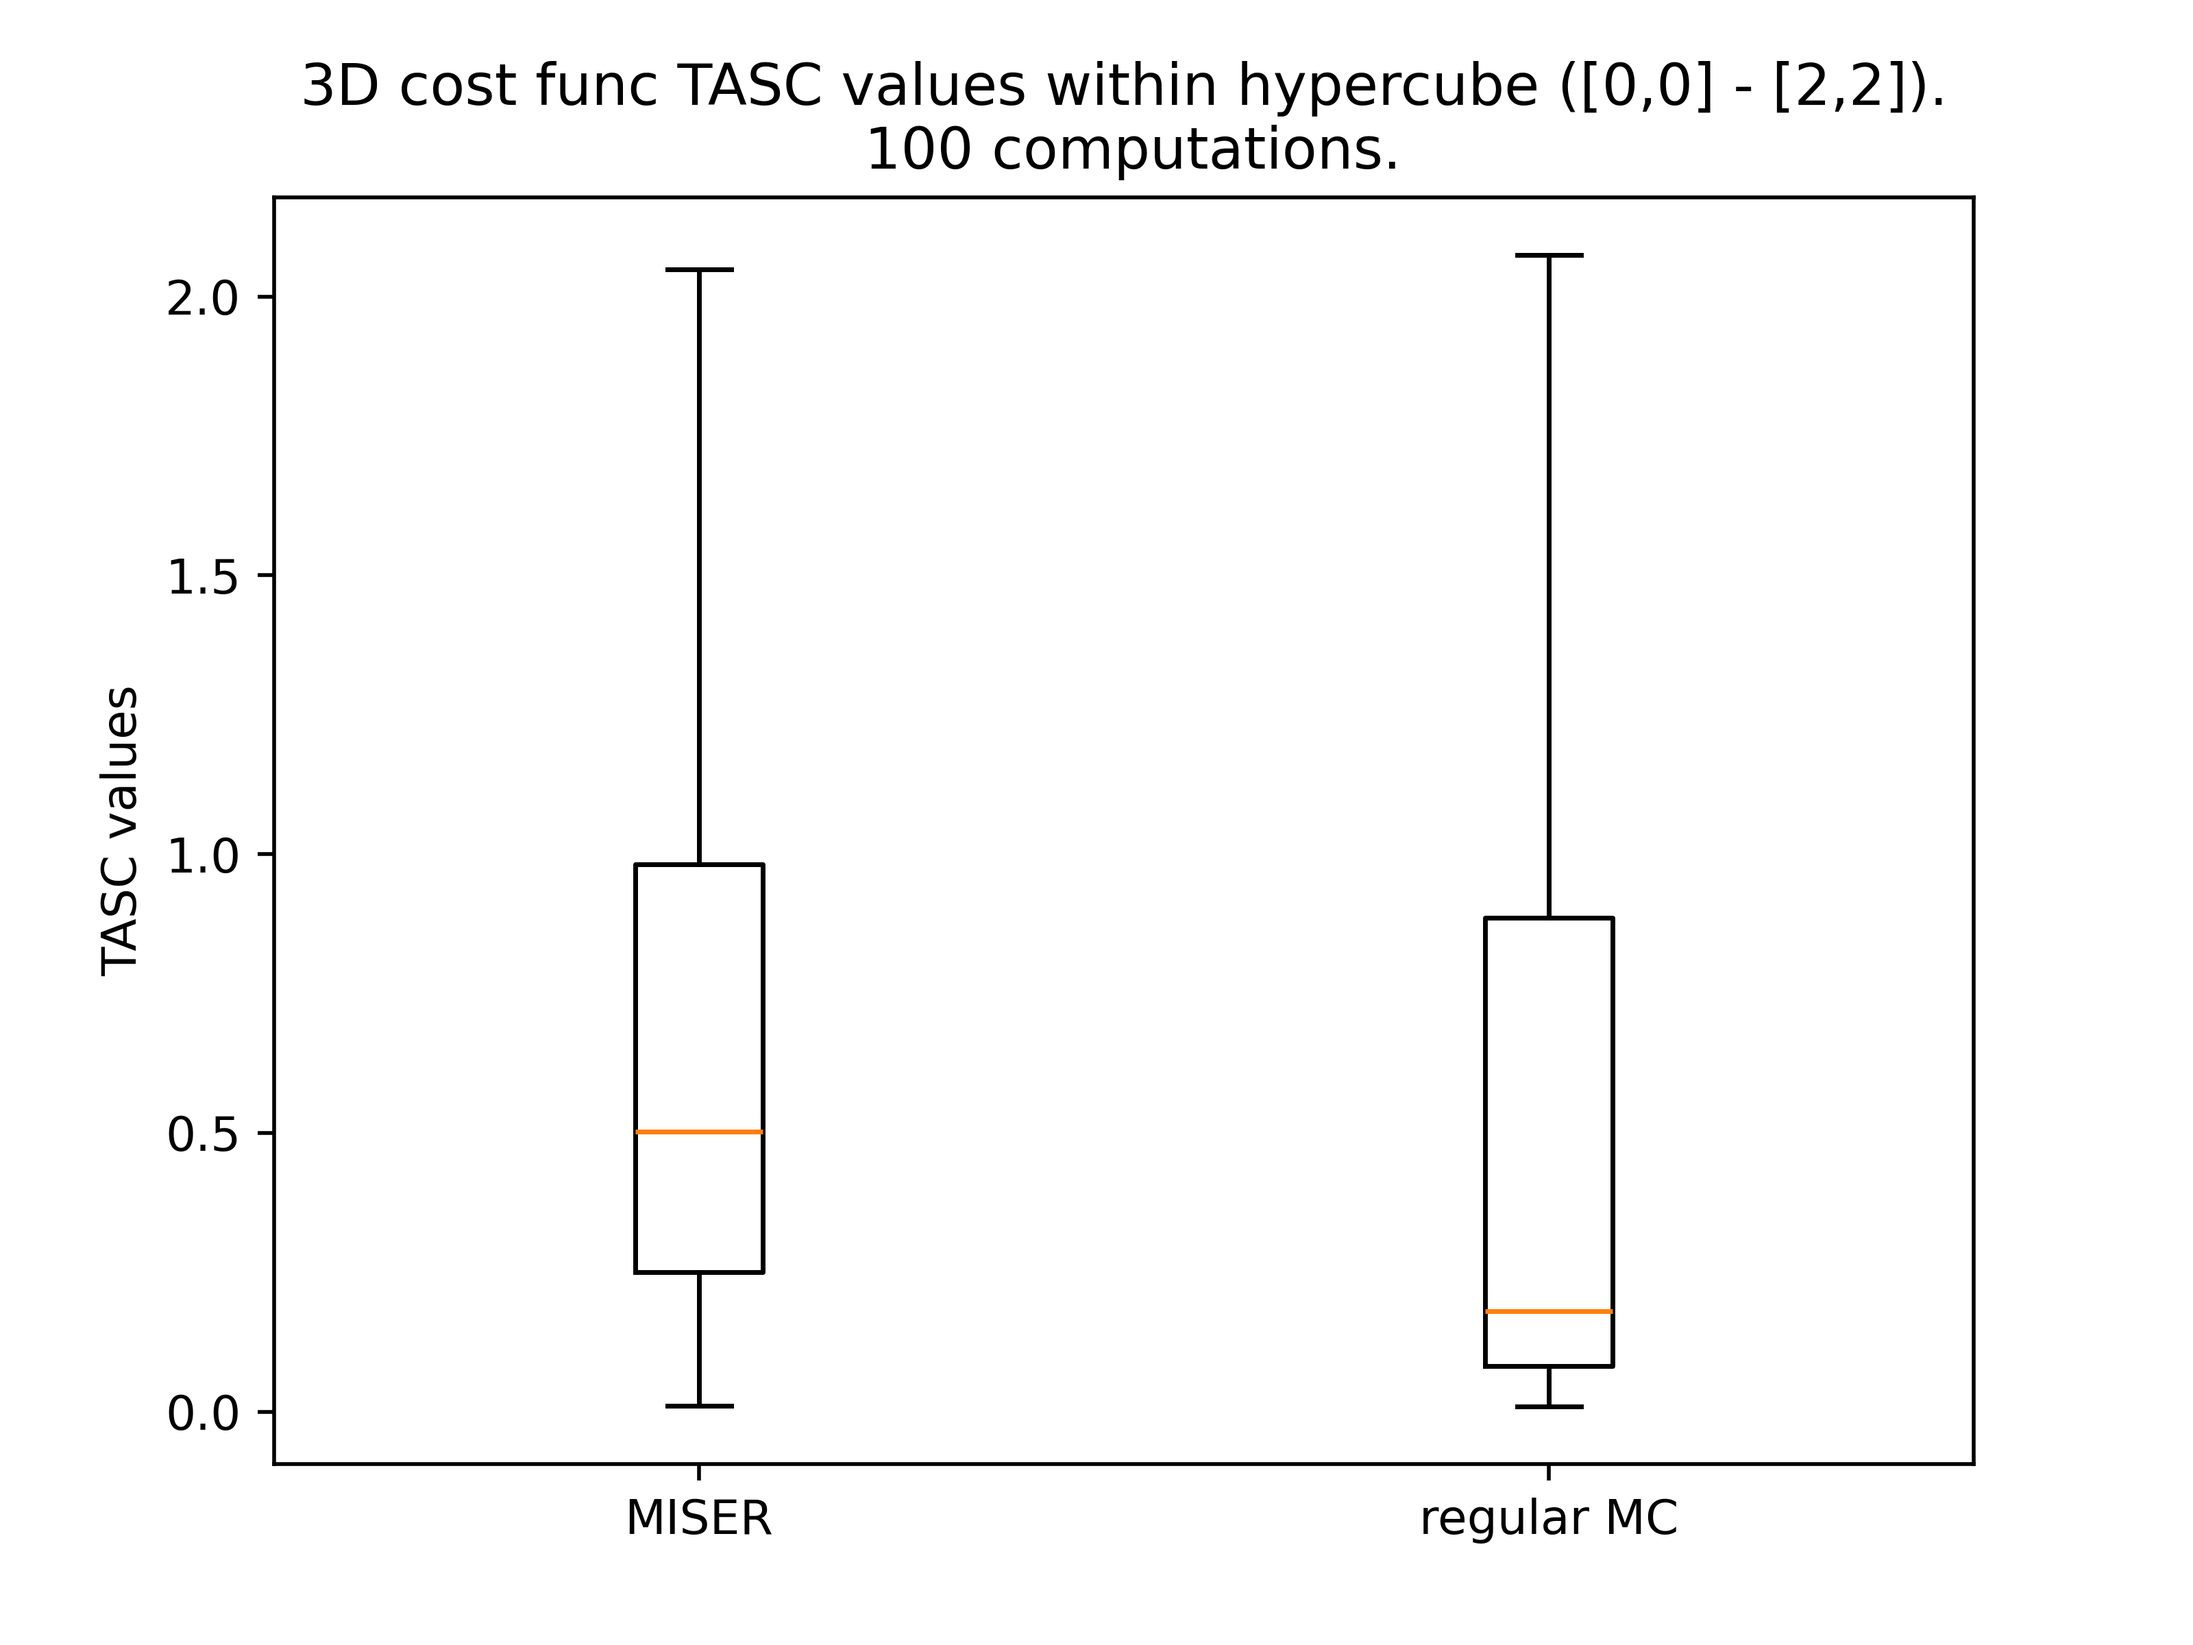
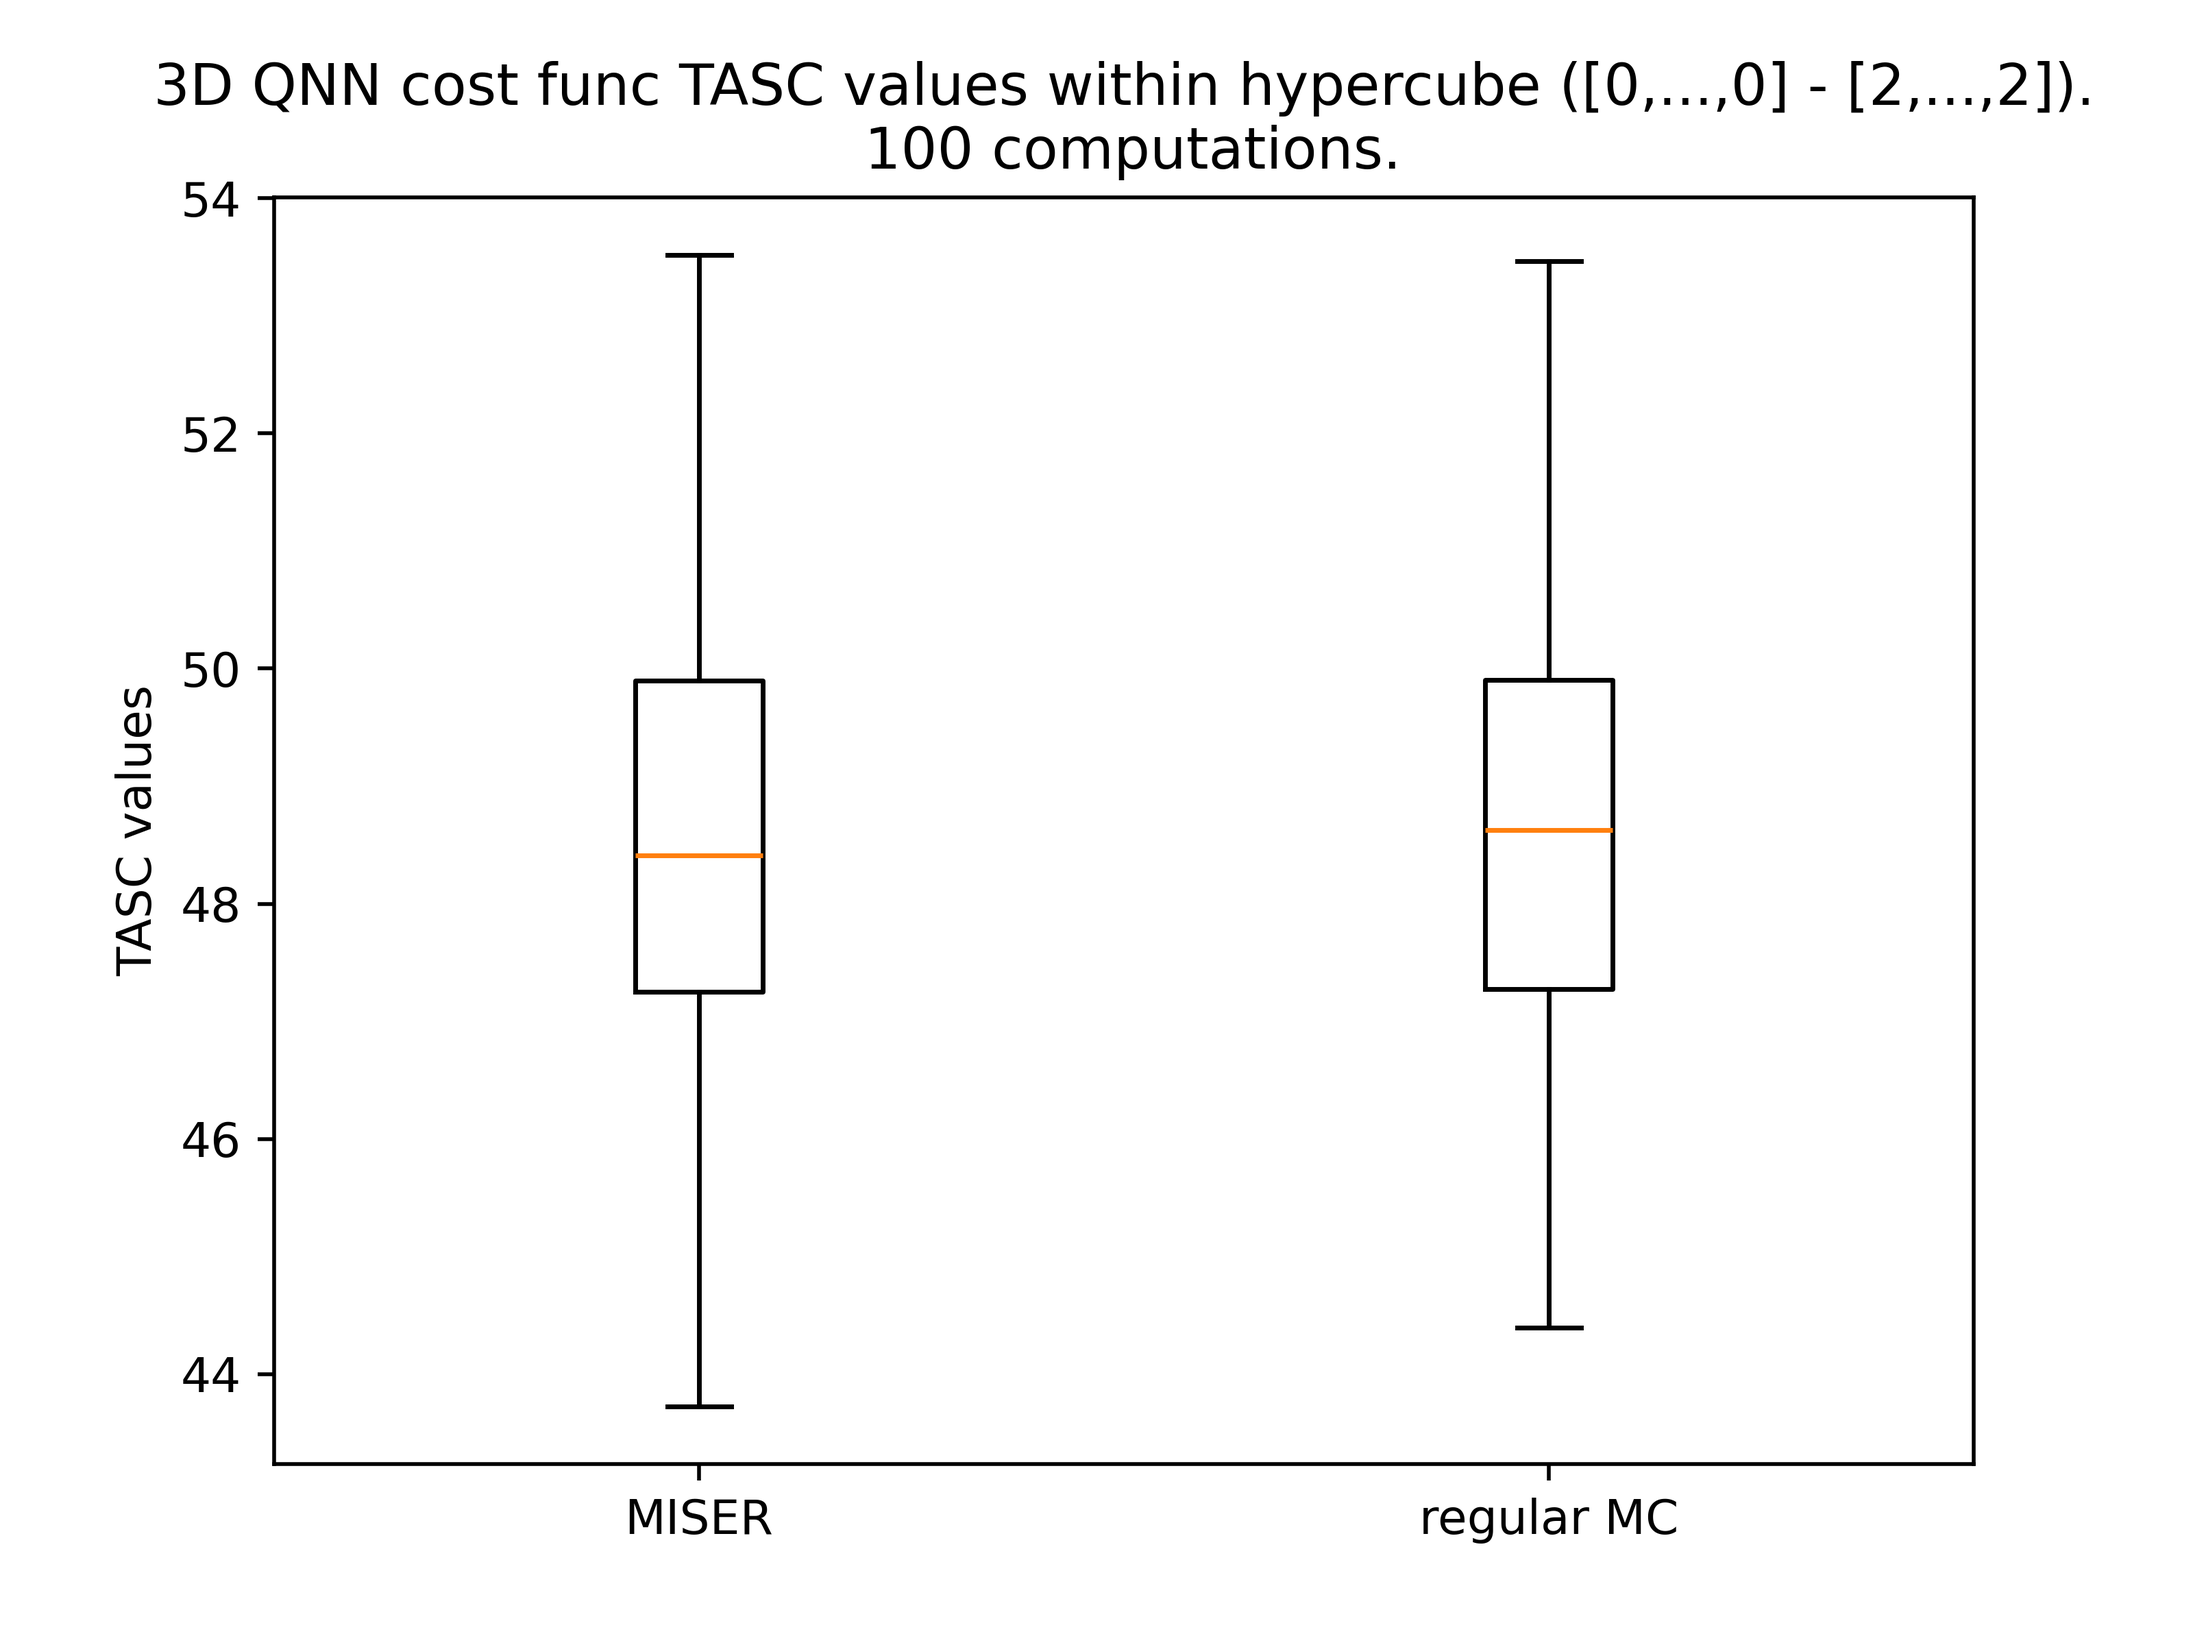
new Miser tests
new plots and results.txt

diff --git a/BA_miser_test.py b/BA_miser_test.py
@@ -6,7 +6,7 @@ from miser.SimpleMonteCarlo import *
 from miser.test_functions import *
 from BA_testing import rosen_projection_to_2d
 from metrics import calc_scalar_curvature_for_function
-from BA_grid_TASC import get_basic_3D_cost_function
+from BA_grid_TASC import get_basic_3D_cost_function, get_basic_6D_cost_function
 from scipy.optimize import rosen
 
 def test_miser():
@@ -161,11 +161,11 @@ def integrate_cube_MISER(func, lowerleft, upperright, N=1000):
 def get_ASC_function(func):
     def absolute_scalar_curvature(x):
         points = [x.tolist()]
-        result = calc_scalar_curvature_for_function(rosen_projection_to_2d, points)
+        result = calc_scalar_curvature_for_function(func, points)
         return np.absolute(result[0])
     return absolute_scalar_curvature
 
-def compare_Miser_with_MC_TASC(func, lowerleft, upperright, N=1000):
+def compare_Miser_with_MC_TASC(func, lowerleft, upperright, N=1000, title="func", file_title="func"):
     '''
         Comparison of TASC of function func within a hypercube when intergral is computed with regular Monte Carlo
         or MISER. Hypercube is given by a lower left corner and upper right corner.
@@ -184,7 +184,7 @@ def compare_Miser_with_MC_TASC(func, lowerleft, upperright, N=1000):
         miser_results.append(miser_result)
         times_miser.append(time_miser)
         Ns_miser.append(N_miser)
-    print(f"Total absolute SC of function {func}.")
+    print(f"Total absolute SC of {title}.")
     print(f"Integrated within hypercupe with lowerleft={lowerleft}, upperright={upperright}")
     print(f"Median results over 100 repetitions")
     print(f"regular MC: TASC = {np.median(mc_results)}, N={N}, time (s)= {np.median(times_mc)}")
@@ -193,22 +193,22 @@ def compare_Miser_with_MC_TASC(func, lowerleft, upperright, N=1000):
     plt.boxplot([miser_results, mc_results], labels=['MISER', 'regular MC'], showfliers=False)
 
     # Adding a title and labels
-    plt.title('2D Rosenbrock TASC values within hypercube ([0,0] - [2,2]).\n 100 computations.')
+    plt.title(f'{title} TASC values within hypercube ([0,...,0] - [2,...,2]).\n 100 computations.')
     plt.ylabel('TASC values')
 
     # Display the plot
-    file_name = "2Drosen_MISER_comparison_noFliers"
+    file_name = f"{file_title}_MISER_comparison_noFliers"
     plt.savefig(f"plots/preliminary_tests/MISER/{file_name}.png", dpi=500)
     plt.close()
     # Creating a boxplot for both datasets
     plt.boxplot([miser_results, mc_results], labels=['MISER', 'regular MC'])
 
     # Adding a title and labels
-    plt.title('2D Rosenbrock TASC values within hypercube ([0,0] - [2,2]).\n 100 computations.')
+    plt.title(f'{title} TASC values within hypercube ([0,...,0] - [2,...,2]).\n 100 computations.')
     plt.ylabel('TASC values')
 
     # Display the plot
-    file_name = "2Drosen_MISER_comparison"
+    file_name = f"{file_title}_MISER_comparison"
     plt.savefig(f"plots/preliminary_tests/MISER/{file_name}.png", dpi=500)
     plt.close()
 
@@ -216,5 +216,11 @@ def compare_Miser_with_MC_TASC(func, lowerleft, upperright, N=1000):
 
 if __name__=="__main__":
     Ns = [1000]
+    func = get_basic_3D_cost_function()
+    dim = 2
+    low = np.zeros(dim)
+    high = np.ones(dim)*2
+    title = "2D rosenbrock func (reduction from 3D)"
+    file_title = "2Drosen"
     for N in Ns:
-        compare_Miser_with_MC_TASC(rosen_projection_to_2d, [0,0], [2,2], N=N)
+        compare_Miser_with_MC_TASC(rosen_projection_to_2d, low, high, N=N, title=title, file_title=file_title)
